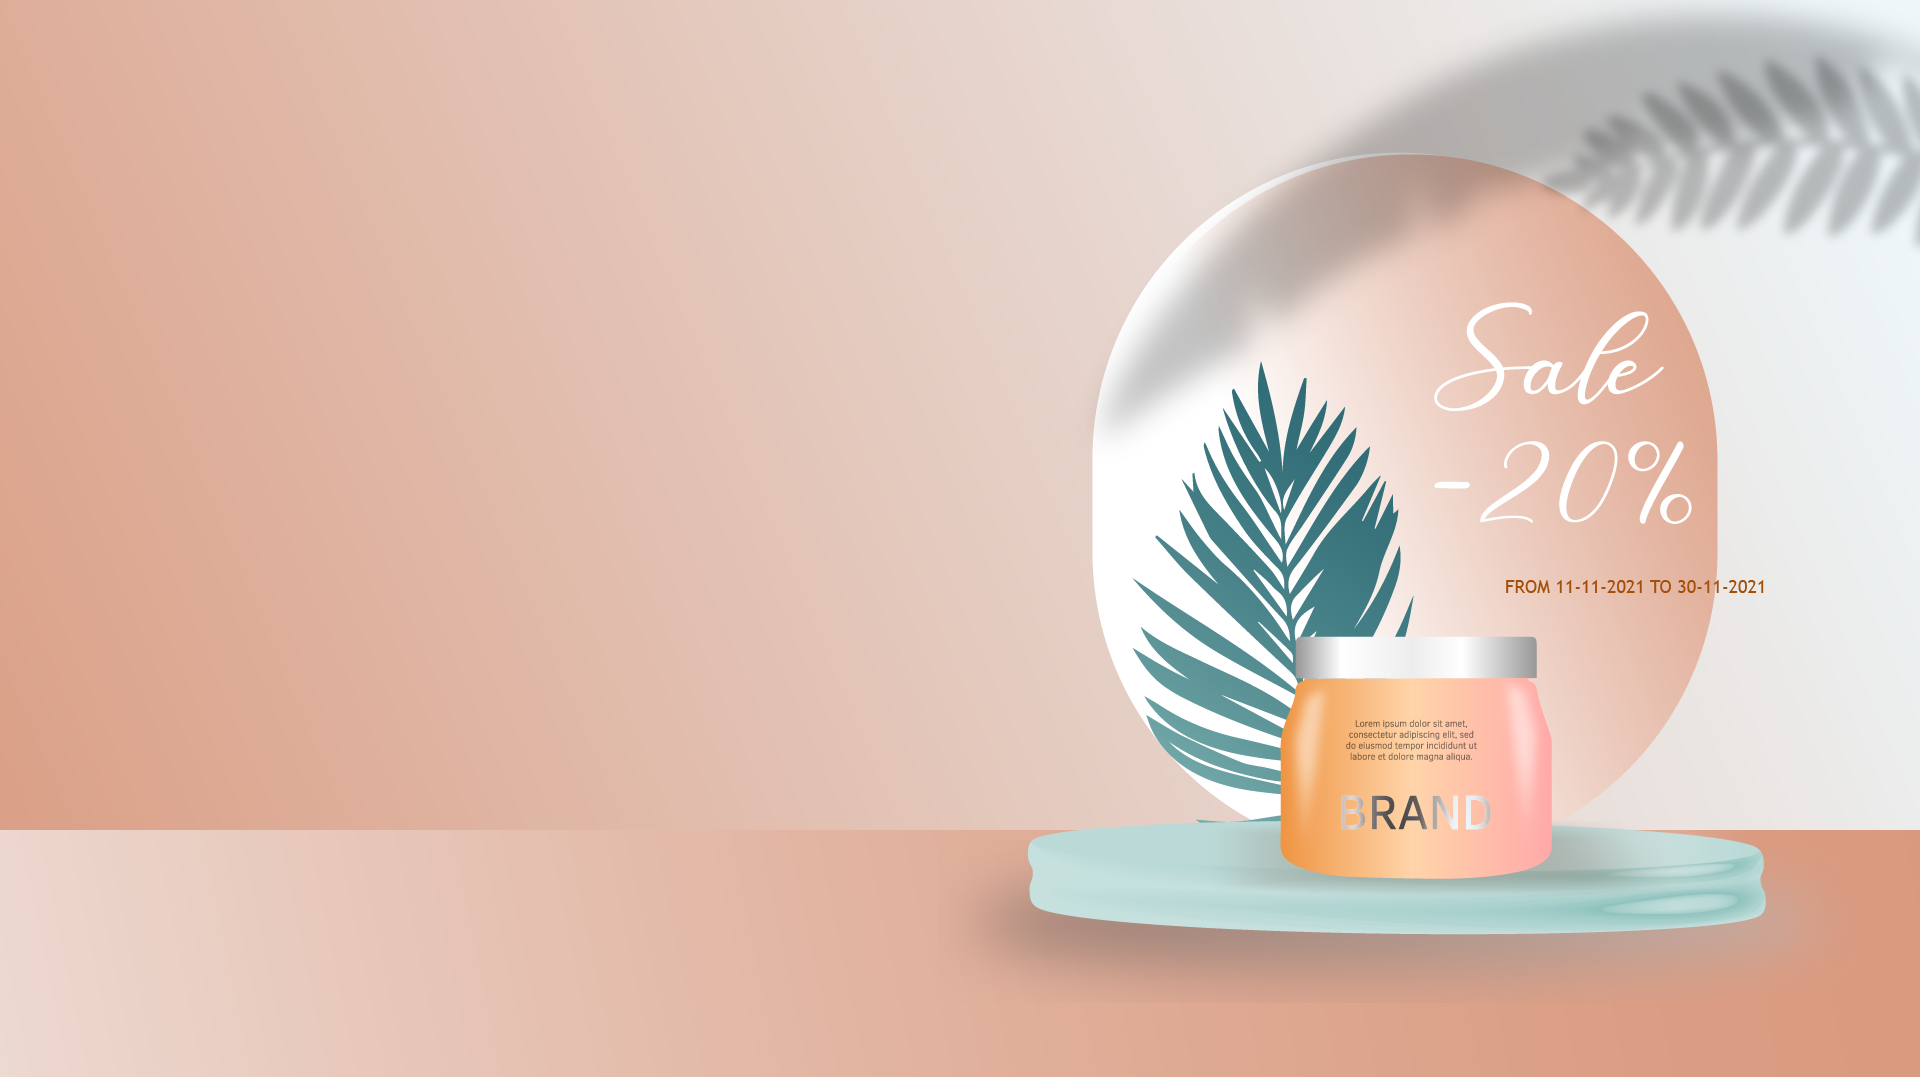
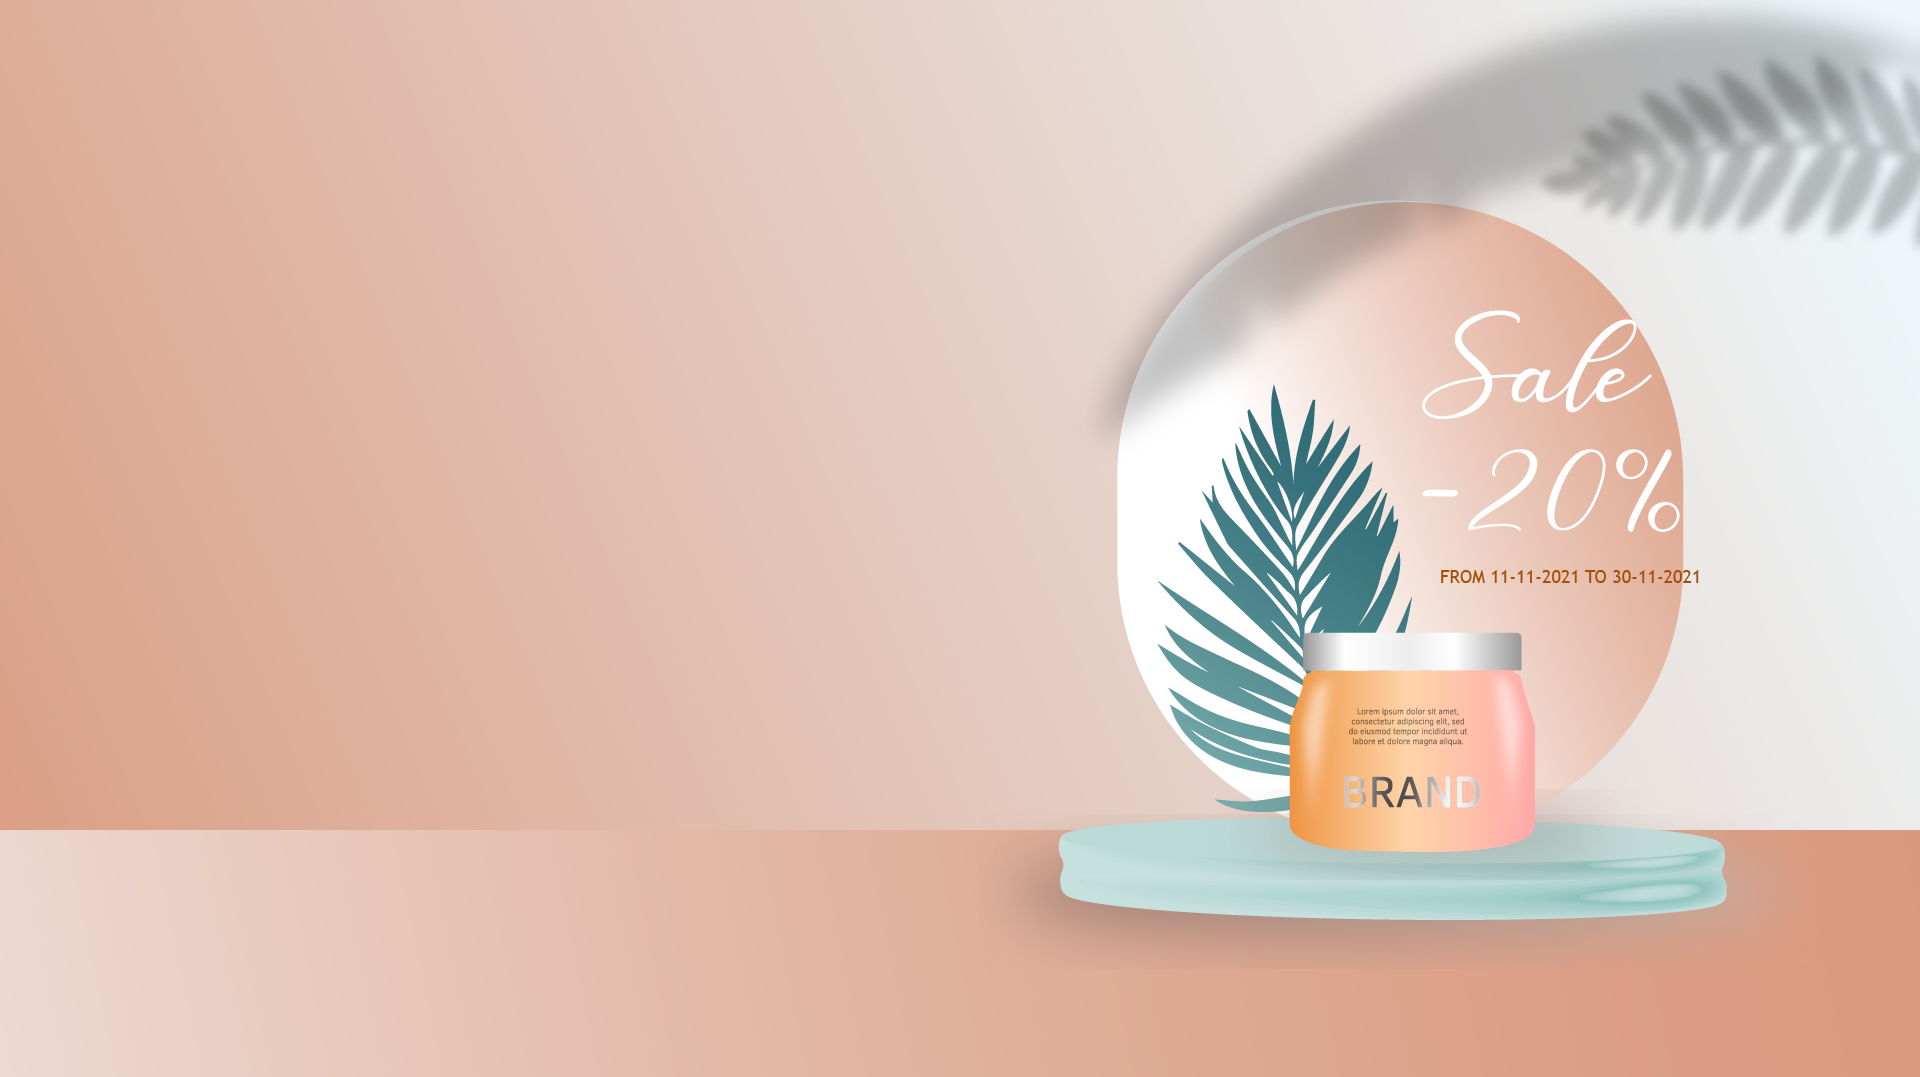
update UI

Changed region(s): [[0.5312, 0.1226, 0.9375, 0.9192]]

diff --git a/index.html b/index.html
@@ -202,7 +202,7 @@
           </div>
           <div class="carousel-item">
             <img
-              src="./assets/images/Banner2.png"
+              src="./assets/images/Banner1.png"
               alt=""
               class="d-block"
               style="width: 100%"
@@ -210,7 +210,7 @@
           </div>
           <div class="carousel-item">
             <img
-              src="./assets/images/Banner3.png"
+              src="./assets/images/Banner2.png"
               alt=""
               class="d-block"
               style="width: 100%"
@@ -313,7 +313,7 @@
 
     <!-- ***** Welcome Area End ***** -->
 
-    <!-- ***** Features Item Start ***** -->
+    <!-- ***** Features services Start ***** -->
     <section class="section services" id="Services">
       <div class="container">
         <div class="row">
@@ -425,5 +425,141 @@
         </div>
       </div>
     </section>
+    <!-- ***** Features services End ***** -->
+    <!-- ***** Features about-us Start ***** -->
+    <section class="section about-us" id="">
+      <div class="container">
+        <div class="row">
+          <div class="col-12 text-justify title title-about">
+            <p>About Us</p>
+            <h1>We Provide All The Equiment You Need</h1>
+          </div>
+          <div class="col-12 gr-item-about">
+            <div class="row">
+              <div class="col-3 item-about">
+                <div>
+                  <img
+                    src="./assets/images/about-us1.png"
+                    class="img-thumbnail rounded-circle"
+                    alt="..."
+                  />
+                </div>
+                <div><h1>532.000 +</h1></div>
+                <div class="txt-primary item-about-title">Top cosmetic</div>
+                <div class="txt-secondary item-about-subtitle">
+                  Lorem ipsum dolor sit amet, consetetur sadipscing elitr, sed
+                  diam nonumy eirmod tempor invidunt ut labore et dolore magna
+                  aliquyam erat, sed diam voluptua.
+                </div>
+                <div class="about-link">
+                  <a href="#" class="">Shoping Now >></a>
+                </div>
+              </div>
+              <div class="col-6 item-about">
+                <div>
+                  <img
+                    src="./assets/images/about-us1.png"
+                    class="img-thumbnail rounded-circle"
+                    alt="..."
+                  />
+                </div>
+                <div><h1>532.000 +</h1></div>
+                <div class="txt-primary item-about-title">Top cosmetic</div>
+                <div class="txt-secondary item-about-subtitle">
+                  Lorem ipsum dolor sit amet, consetetur sadipscing elitr, sed
+                  diam nonumy eirmod tempor invidunt ut labore et dolore magna
+                  aliquyam erat, sed diam voluptua.
+                </div>
+                <div class="about-link"><a href="#">Shoping Now >></a></div>
+              </div>
+              <div class="col-3 item-about">
+                <div>
+                  <img
+                    src="./assets/images/about-us1.png"
+                    class="img-thumbnail rounded-circle"
+                    alt="..."
+                  />
+                </div>
+                <div><h1>532.000 +</h1></div>
+                <div class="txt-primary item-about-title">Top cosmetic</div>
+                <div class="txt-secondary item-about-subtitle">
+                  Lorem ipsum dolor sit amet, consetetur sadipscing elitr, sed
+                  diam nonumy eirmod tempor invidunt ut labore et dolore magna
+                  aliquyam erat, sed diam voluptua.
+                </div>
+                <div class="about-link"><a href="#">Shoping Now >></a></div>
+              </div>
+            </div>
+          </div>
+        </div>
+      </div>
+    </section>
+    <!-- ***** Features about-us End ***** -->
+
+    <!-- ***** Features our-product Start ***** -->
+    <section class="section our-product" id="">
+      <div class="container">
+        <div class="row">
+          <div class="col-12 text-justify title">
+            <p>About Us</p>
+            <h1>We Provide All The Equiment You Need</h1>
+          </div>
+          <div class="col-12 our-product-nav">
+            <ul class="nav">
+              <li class="nav-item">
+                <a class="nav-link active" aria-current="page" href="#"
+                  >Cleanser</a
+                >
+              </li>
+              <li class="nav-item">
+                <a class="nav-link" href="#"> Exfoliator</a>
+              </li>
+              <li class="nav-item">
+                <a class="nav-link" href="#"> Treatment</a>
+              </li>
+              <li class="nav-item">
+                <a class="nav-link" href="#"> Serum</a>
+              </li>
+              <li class="nav-item">
+                <a class="nav-link" href="#"> Face</a>
+              </li>
+              <li class="nav-item">
+                <a class="nav-link" href="#"> Oil</a>
+              </li>
+              <li class="nav-item">
+                <a class="nav-link" href="#"> Sunscreen</a>
+              </li>
+              <li class="nav-item">
+                <a class="nav-link" href="#">Moisturizer</a>
+              </li>
+              <li class="nav-item">
+                <a class="nav-link" href="#"> Toner</a>
+              </li>
+            </ul>
+          </div>
+          <div class="col-12 gr-product-item">
+            <div class="row">
+              <div class="col-3 product-item">
+                
+                <div class="item-img position-relative">
+                  <img
+                    src="./assets/images/about-us1.png"
+                    class=" "
+                    alt="..."
+                  />
+                  <span class="badget-sale position-absolute badge position-absolute top-0 start-0 ">SALE -20%</span>
+                </div>
+                <div class="item-title"><h5>Product short name</h5></div>
+                <div class="item-price-old txt-primary">$234.00</div>
+                <div class="item-price">
+                  <h3>$200.00</h3>
+                </div>
+              </div>
+            </div>
+          </div>
+        </div>
+      </div>
+    </section>
+    <!-- ***** Features our-product End ***** -->
   </body>
 </html>

diff --git a/assets/css/style.css b/assets/css/style.css
@@ -13,7 +13,7 @@
   --color-bg-light-default: #f7eae2;
   --color-bg-dark-default: #c8c8c8;
   --color-text-primary: #100d0d;
-  --color-text-secondary: #775151;
+  --color-text-secondary: #c38e88;
   --color-icon-primary: #775151;
   --color-red: #f44336;
 }
@@ -48,7 +48,8 @@
 .txt-20 {
   font-size: 20px;
 }
-
+.txt-30 {
+}
 .txt-60 {
   font-size: 60px;
 }
@@ -221,34 +222,123 @@
 }
 
 /* Features */
+/* Features service */
 
 .services {
-  padding-top: 150px;
+  padding: 150px 0;
 }
 
 .services .services-item .title-services h4 {
-    color: var(--color-light-primary);
+  color: var(--color-light-primary);
 }
-.services .services-item .title-services{
-    padding: 10px 0;
+.services .services-item .title-services {
+  padding: 10px 0;
 }
-.services .services-item{
-    text-align: center;
-    padding: 0 20px;
-    border-right: 1px solid var(--color-bg-light-default);
+.services .services-item {
+  text-align: center;
+  padding: 0 20px;
+  border-right: 1px solid var(--color-bg-light-default);
 }
-.services .services-item  .icon-services svg{
- color: var(--color-text-secondary);
- width: 36px;
- height: 36px;
- stroke-width:1.2;
-
+.services .services-item .icon-services svg {
+  color: var(--color-text-secondary);
+  width: 36px;
+  height: 36px;
+  stroke-width: 1.2;
 }
-.services .services-item .sub-services{
-    color: var(--color-light-secondary);
+.services .services-item .sub-services {
+  color: var(--color-light-secondary);
 }
-.services-item:last-child{
-    border-right: none;
+.services-item:last-child {
+  border-right: none;
 }
-
-
+/* Features About Us */
+.about-us {
+  padding: 100px 0;
+  width: 100%;
+  height: 100%;
+  text-align: center;
+}
+.about-us .gr-item-about {
+  padding-top: 100px;
+}
+.about-us .title-about {
+  text-align: center;
+}
+.title p {
+  color: var(--color-light-secondary);
+}
+.title h1 {
+  color: var(--color-text-primary);
+}
+.about-us .item-about .item-about-title {
+  font-size: 30px;
+}
+.item-about h1 {
+  padding-top: 40px;
+}
+.about-us .item-about .item-about-subtitle {
+}
+.about-us .item-about .about-link {
+  padding-top: 40px;
+}
+.about-us .item-about .about-link a {
+  color: var(--color-text-secondary);
+  font-size: 16px;
+}
+.about-us .item-about h1 {
+  color: var(--color-text-secondary);
+}
+.about-us .item-about img {
+  width: 100%;
+  height: 100%;
+}
+/* Features Our Product  */
+.our-product {
+  padding: 100px 0;
+}
+.our-product-nav {
+  padding: 40px 0;
+}
+.our-product .our-product-nav ul li {
+  padding: 0 20px;
+}
+.our-product .our-product-nav ul li a {
+  color: var(--color-light-secondary);
+}
+.our-product .our-product-nav ul li .active {
+  color: var(--color-text-secondary);
+  border-bottom: 2px solid var(--color-text-secondary);
+  text-transform: uppercase;
+}
+.our-product .our-product-nav ul li:hover a {
+  color: var(--color-text-secondary);
+}
+.our-product .gr-product-item .product-item .item-price-old {
+  color: var(--color-light-secondary);
+  text-decoration: line-through;
+}
+.our-product .gr-product-item .product-item {
+  
+  background-color: var(--color-bg-light-default);
+}
+.our-product .gr-product-item .product-item .item-price h3 {
+  color: var(--color-text-secondary);
+  
+}
+.our-product .gr-product-item .product-item .item-img {
+  width: 100%;
+  height: 400px;
+  padding-bottom: 20px;
+  left: 0 !important;
+  
+}
+.our-product .gr-product-item .product-item .item-img img{
+  width: 100%;
+  height: 100%;
+  object-fit: cover;
+}
+.badget-sale{
+  border-radius:0px !important;
+  background-color: var(--color-text-primary);
+  color: var(--color-white);
+}
